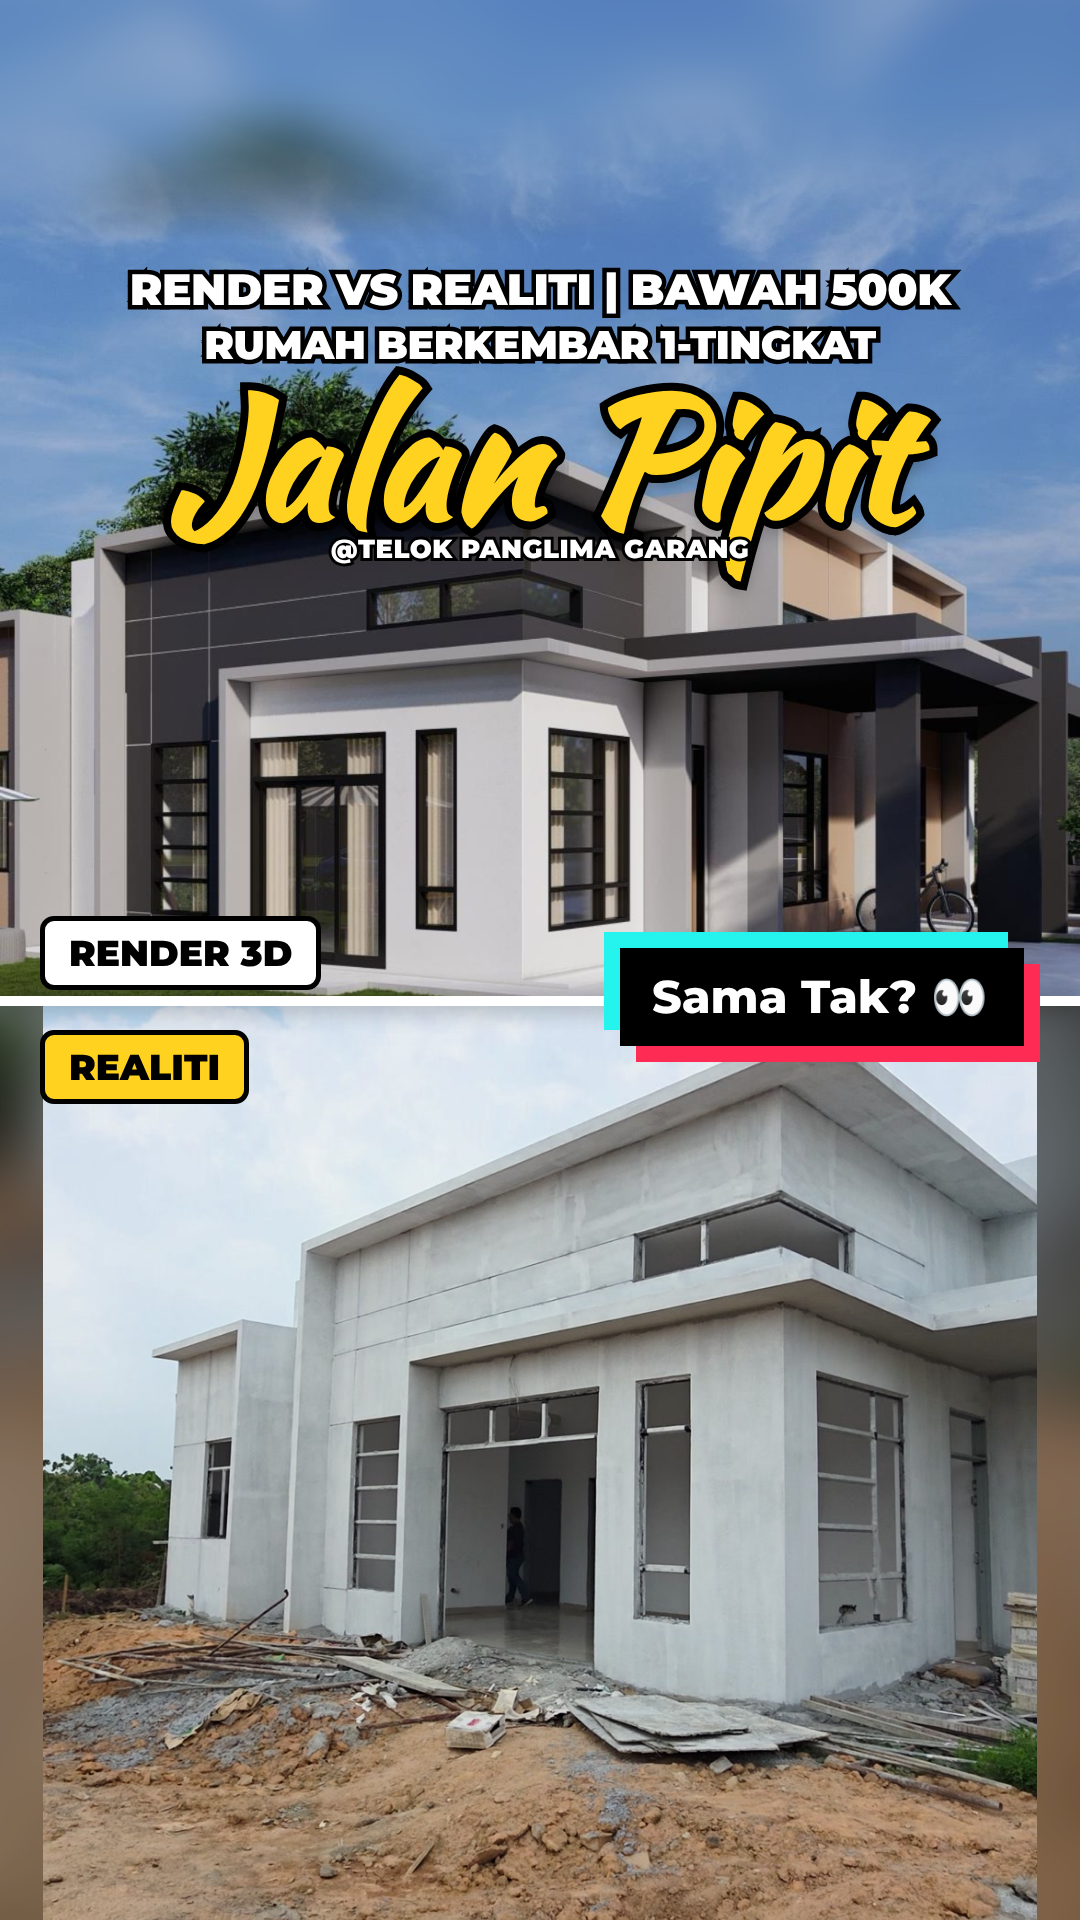
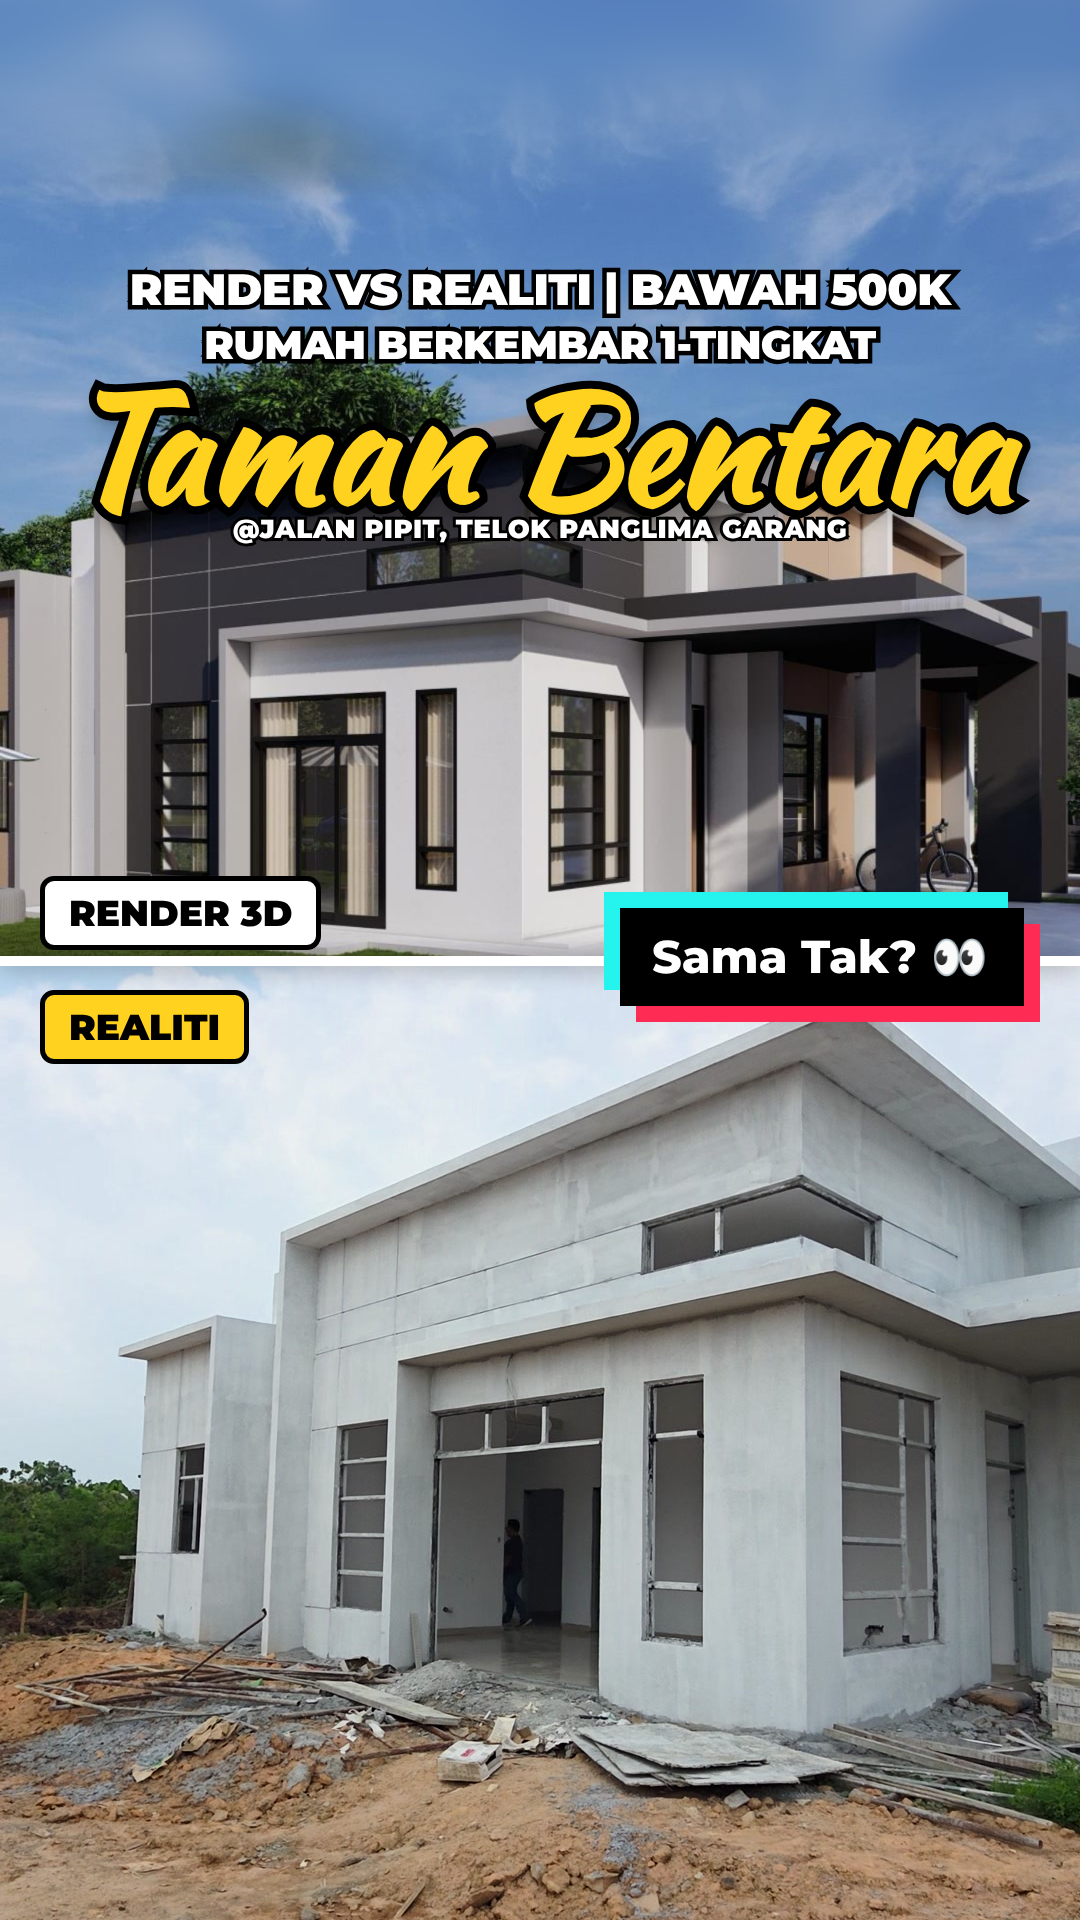
Cover B: full-width real photo, Taman Bentara title
Claude-Session: https://claude.ai/code/session_013Q961J8GiVCsfByTTFVKLz

diff --git a/video/bentara/cover/cover-b.html b/video/bentara/cover/cover-b.html
@@ -16,11 +16,11 @@
   .top { position: absolute; left: 0; right: 0; top: 262px; text-align: center; color: #fff; font-family: "Mont"; font-weight: 900; text-transform: uppercase; }
   .l1 { font-size: 44px; letter-spacing: -.5px; -webkit-text-stroke: 9px #000; paint-order: stroke fill; }
   .l2 { font-size: 40px; letter-spacing: -.5px; margin-top: 4px; -webkit-text-stroke: 9px #000; paint-order: stroke fill; }
-  .title { margin-top: -6px; font-family: "Script"; font-size: 168px; line-height: 1.12; color: #ffd21f; text-transform: none; letter-spacing: 0;
+  .title { margin-top: -6px; font-family: "Script"; font-size: 150px; line-height: 1.12; color: #ffd21f; text-transform: none; letter-spacing: 0;
            -webkit-text-stroke: 16px #000; paint-order: stroke fill; text-shadow: 0 8px 0 #000, 0 12px 18px rgba(0,0,0,.35); }
   .at { margin-top: -18px; font-size: 26px; letter-spacing: .5px; -webkit-text-stroke: 6px #000; paint-order: stroke fill; }
   .tag { position: absolute; padding: 10px 24px; border-radius: 14px; background: #fff; color: #000; font-family: "Mont"; font-weight: 900; font-size: 36px; border: 5px solid #000; }
-  .box { position: absolute; right: 56px; top: 948px; }
+  .box { position: absolute; right: 56px; top: 908px; }
   .box .cy, .box .rd { position: absolute; inset: 0; }
   .box .cy { background: #25f4ee; transform: translate(-16px, -16px); }
   .box .rd { background: #fe2c55; transform: translate(16px, 16px); }
@@ -29,22 +29,21 @@
 </head>
 <body>
   <!-- top band: whole render; bottom band: whole real house (blurred fill behind) -->
-  <img class="bg" src="../assets/img/real-corner.jpg" alt="" style="filter:blur(30px) brightness(.8);transform:scale(1.2)" />
-  <div style="position:absolute;left:0;top:0;width:1080px;height:1000px;overflow:hidden">
+  <div style="position:absolute;left:0;top:0;width:1080px;height:960px;overflow:hidden">
     <img src="../assets/img/render-corner.jpg" alt="" style="position:absolute;left:-100px;top:-200px;width:1280px;height:1254px;filter:blur(26px)" />
-    <img src="../assets/img/render-corner.jpg" alt="" style="position:absolute;left:0;top:101px;width:1080px;height:1058px;-webkit-mask-image:linear-gradient(transparent 0,#000 140px)" />
+    <img src="../assets/img/render-corner.jpg" alt="" style="position:absolute;left:0;top:61px;width:1080px;height:1058px;-webkit-mask-image:linear-gradient(transparent 0,#000 140px)" />
   </div>
-  <div style="position:absolute;left:0;top:1000px;width:1080px;height:920px;overflow:hidden">
-    <img src="../assets/img/real-corner.jpg" alt="" style="position:absolute;left:43px;top:-440px;width:994px;height:1767px" />
+  <div style="position:absolute;left:0;top:960px;width:1080px;height:960px;overflow:hidden">
+    <img src="../assets/img/real-corner.jpg" alt="" style="position:absolute;left:0;top:-470px;width:1080px;height:1920px" />
   </div>
-  <div style="position:absolute;left:0;right:0;top:996px;height:10px;background:#fff;box-shadow:0 0 24px rgba(0,0,0,.45)"></div>
-  <div class="tag" style="left:40px;top:916px">RENDER 3D</div>
-  <div class="tag" style="left:40px;top:1030px;background:#ffd21f">REALITI</div>
+  <div style="position:absolute;left:0;right:0;top:956px;height:10px;background:#fff;box-shadow:0 0 24px rgba(0,0,0,.45)"></div>
+  <div class="tag" style="left:40px;top:876px">RENDER 3D</div>
+  <div class="tag" style="left:40px;top:990px;background:#ffd21f">REALITI</div>
   <div class="top">
     <div class="l1">Render vs Realiti | Bawah 500K</div>
     <div class="l2">Rumah berkembar 1-tingkat</div>
-    <div class="title">Jalan Pipit</div>
-    <div class="at">@Telok Panglima Garang</div>
+    <div class="title">Taman Bentara</div>
+    <div class="at">@Jalan Pipit, Telok Panglima Garang</div>
   </div>
   <div class="box"><div class="cy"></div><div class="rd"></div><div class="bk">Sama Tak? 👀</div></div>
 </body>
